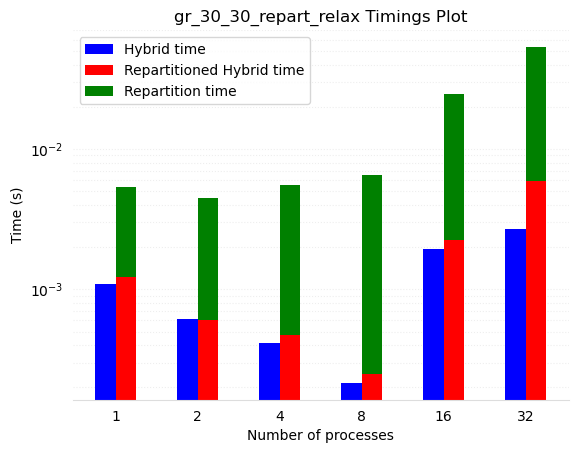
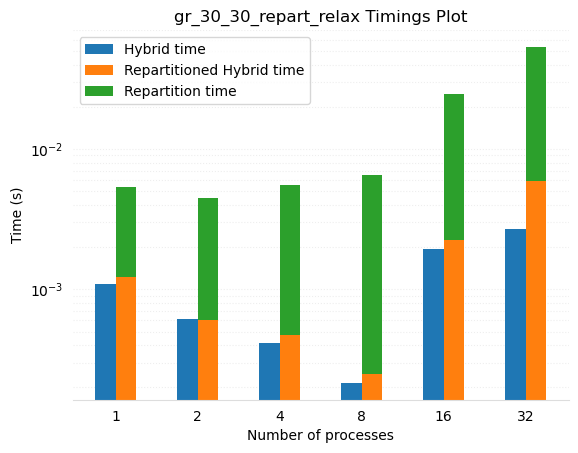
changed to better looking colors

diff --git a/plots_code/generate_plot.py b/plots_code/generate_plot.py
@@ -74,18 +74,18 @@ if __name__ == "__main__":
 
     # color='...'
     # blue - b
-    plt.bar(br1, output[0], color='b', width=barWidth, label=f"Hybrid time",
+    plt.bar(br1, output[0], width=barWidth, label=f"Hybrid time",
             log=1)
 
     # changed from br3 -- stack the repartition time with new hybrid time
     # change so output[3] is on bottom -- new repartitioned hybrid time
     # red - r
-    plt.bar(br2, output[3], color='r', width=barWidth, label=f"Repartitioned "
+    plt.bar(br2, output[3], width=barWidth, label=f"Repartitioned "
                                                             f"Hybrid time",
             log=1)
 
     # green - g
-    plt.bar(br2, output[2], color='g', width=barWidth, label=f"Repartition "
+    plt.bar(br2, output[2], width=barWidth, label=f"Repartition "
                                                              f"time",
             bottom=output[3], log=1)
 
@@ -138,12 +138,16 @@ if __name__ == "__main__":
     # check if the grid looks good...
 
     # ax = fig.add_axes([0, 0, 1, 1])
-    plt.bar(br1, output[1], color='b', width=barWidth, label=f"Hybrid Residual",
+    # color='...'
+    # blue - b
+    plt.bar(br1, output[1], width=barWidth, label=f"Hybrid Residual",
             log=1)
 
     # changed from br3 -- stack the repartition time with new hybrid time
     # change so output[3] is on bottom -- new repartitioned hybrid time
-    plt.bar(br2, output[4], color='r', width=barWidth, label=f"Repartitioned "
+    # color='...'
+    # red - r
+    plt.bar(br2, output[4], width=barWidth, label=f"Repartitioned "
                                                              f"Hybrid Residual",
             log=1)
 
